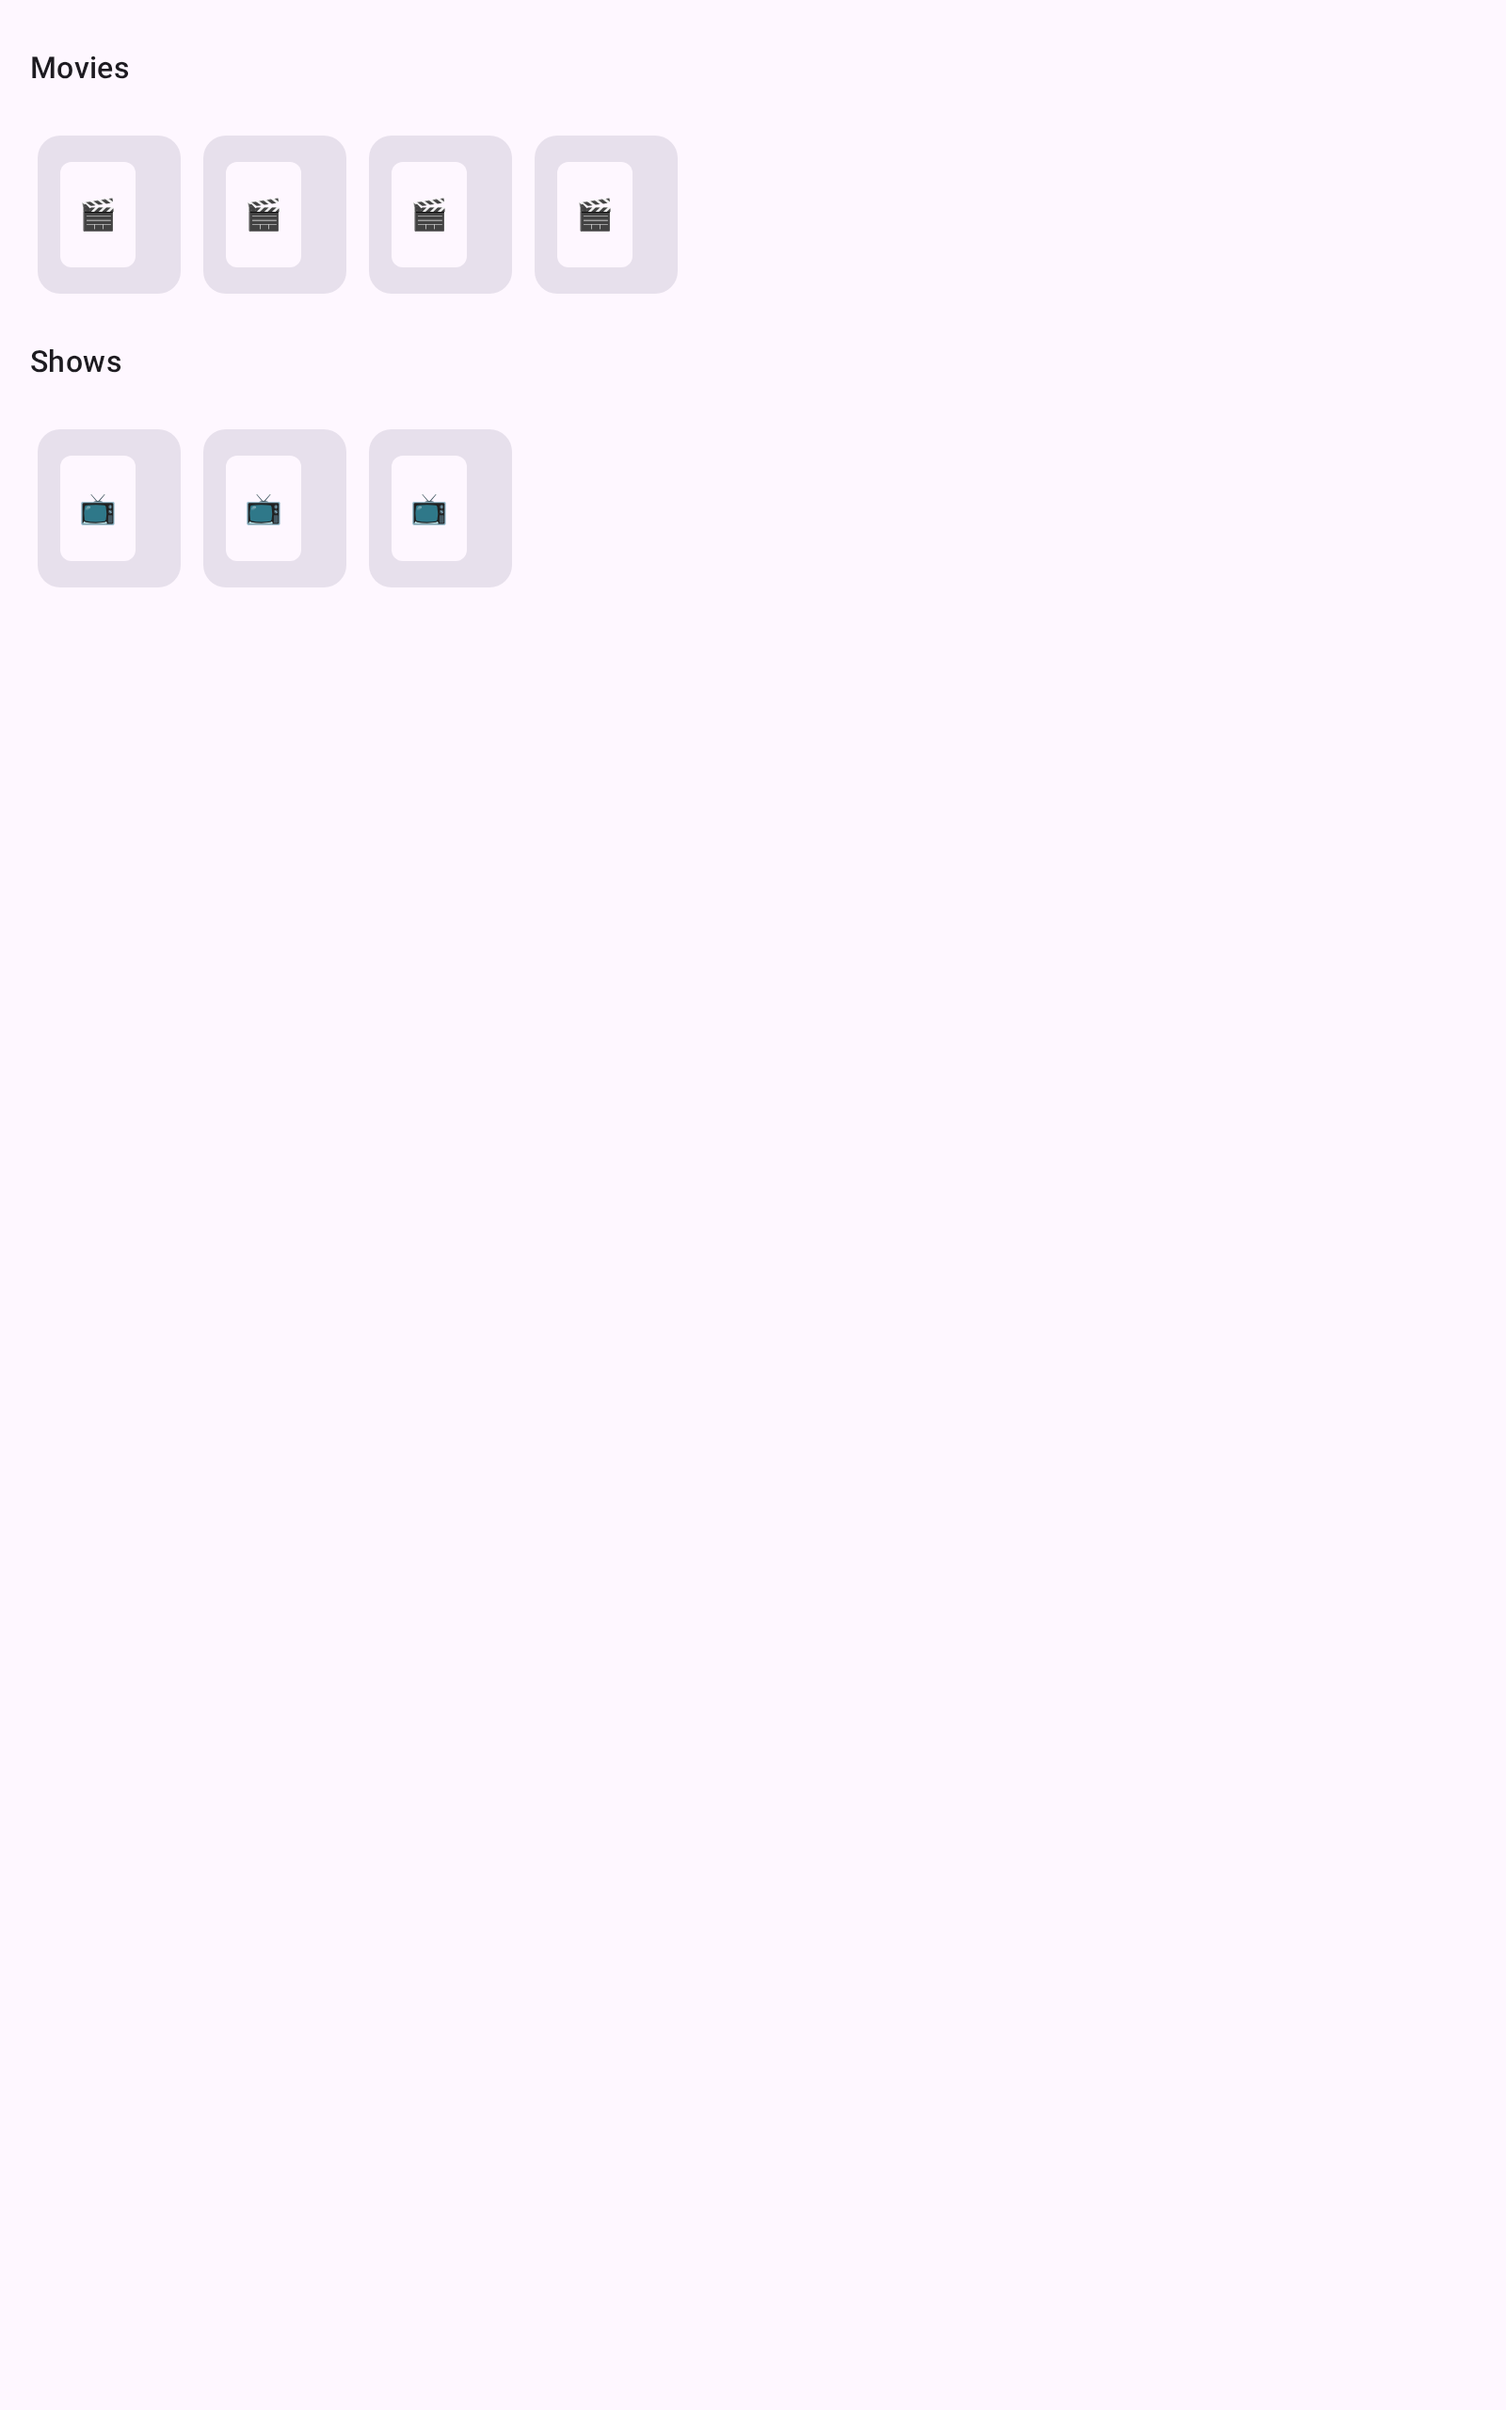
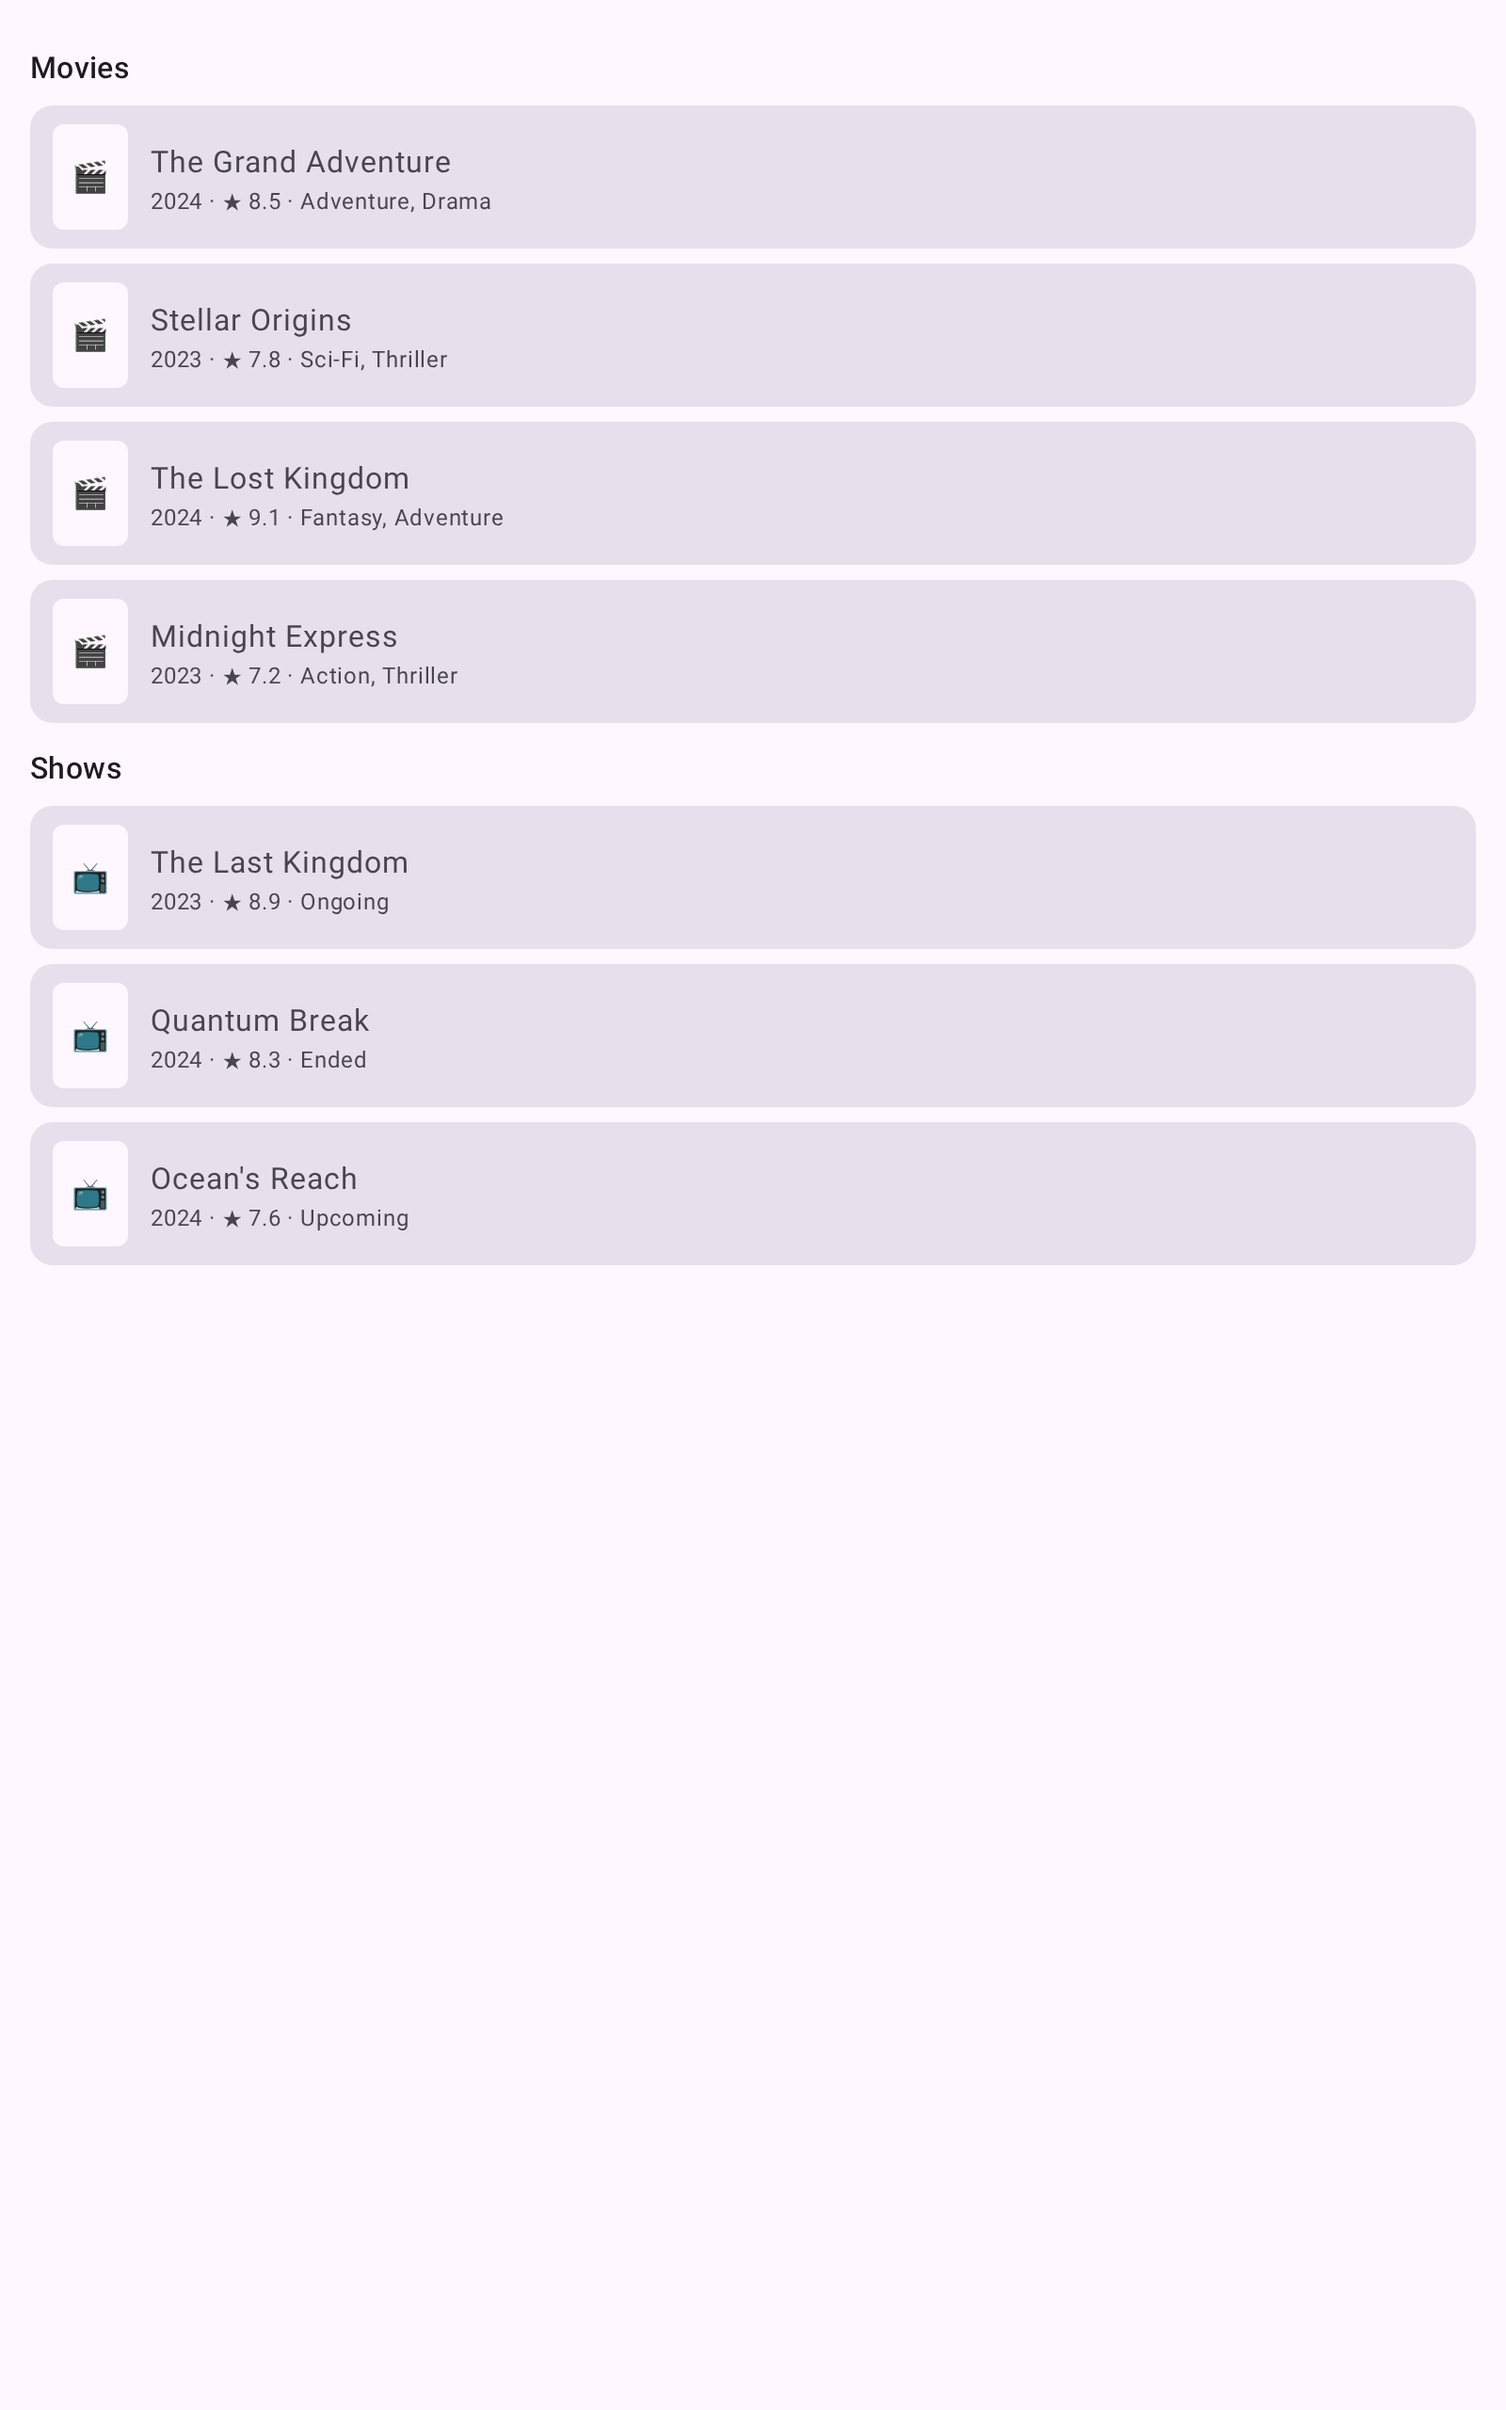
fix: render the list layout in the home screenshot previews (#339)
* fix: render the list layout in the home screenshot previews

The home preview wrapped each CompactMediaRow in a horizontal LazyRow.
In that unbounded-width parent the row's weighted title column collapses
to zero width, so the rendered goldens showed only the poster
placeholders - indistinguishable from the old tiles, and the README
exported those images as the app's Home screenshots.

Render a vertical Column of rows instead, matching the Home tab.

* chore: regenerate golden images and README screenshots

* chore: retrigger CI after the screenshot bot commit

The Screenshots workflow pushes its regolden commit with GITHUB_TOKEN, so
GitHub parks the resulting pull_request run in action_required. An
empty maintainer commit re-runs CI for the same tree.

---------

diff --git a/androidApp/src/screenshotTest/kotlin/net/subsloth/screenshot/HomeScreenScreenshotTest.kt b/androidApp/src/screenshotTest/kotlin/net/subsloth/screenshot/HomeScreenScreenshotTest.kt
@@ -2,10 +2,8 @@ package net.subsloth.screenshot
 
 import androidx.compose.foundation.layout.Arrangement
 import androidx.compose.foundation.layout.Column
-import androidx.compose.foundation.layout.PaddingValues
 import androidx.compose.foundation.layout.fillMaxSize
 import androidx.compose.foundation.layout.padding
-import androidx.compose.foundation.lazy.LazyRow
 import androidx.compose.material3.MaterialTheme
 import androidx.compose.material3.Surface
 import androidx.compose.material3.Text
@@ -165,12 +163,12 @@ private fun HomeScreenScreenshotContent() {
                 Modifier
                     .fillMaxSize()
                     .padding(16.dp),
-            verticalArrangement = Arrangement.spacedBy(16.dp),
+            verticalArrangement = Arrangement.spacedBy(4.dp),
         ) {
             HomeRowLabel(label = "Movies")
-            MediaRow(items = movieItems)
+            MediaList(items = movieItems)
             HomeRowLabel(label = "Shows")
-            MediaRow(items = showItems)
+            MediaList(items = showItems)
         }
     }
 }
@@ -180,22 +178,16 @@ private fun HomeRowLabel(label: String) {
     Text(
         text = label,
         style = MaterialTheme.typography.titleMedium,
-        modifier = Modifier.padding(vertical = 8.dp),
+        modifier = Modifier.padding(top = 8.dp, bottom = 4.dp),
         maxLines = 1,
         overflow = TextOverflow.Ellipsis,
     )
 }
 
+/** Mirrors the app''s vertical list: one compact row per item, no horizontal scrolling. */
 @Composable
-private fun MediaRow(items: ImmutableList<Media>) {
-    LazyRow(
-        horizontalArrangement = Arrangement.spacedBy(12.dp),
-        contentPadding = PaddingValues(horizontal = 4.dp),
-    ) {
-        items.forEach { media ->
-            item(key = media.title) {
-                MediaListRow(media = media)
-            }
-        }
+private fun MediaList(items: ImmutableList<Media>) {
+    Column(verticalArrangement = Arrangement.spacedBy(8.dp)) {
+        items.forEach { media -> MediaListRow(media = media) }
     }
 }
